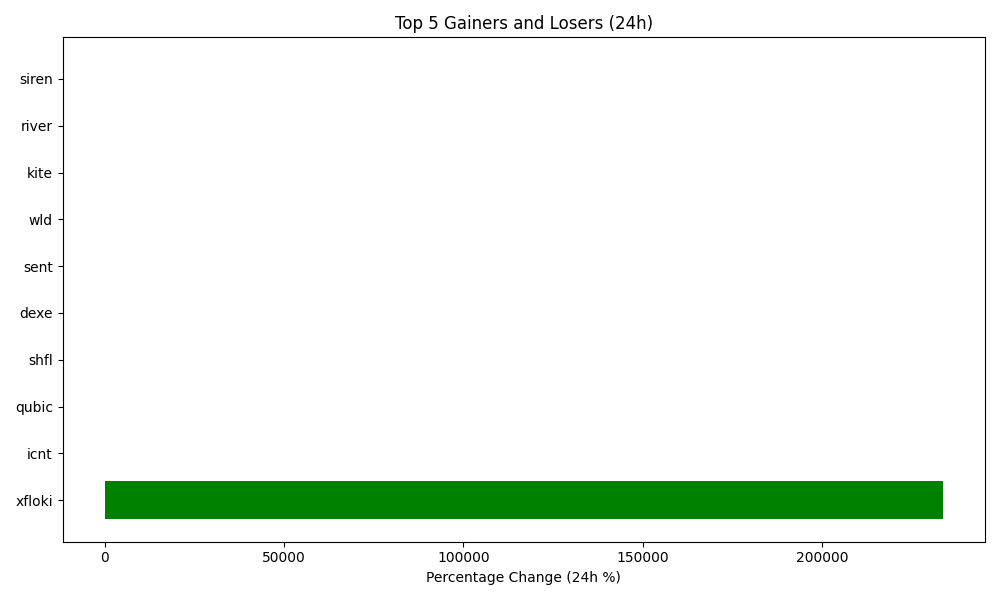
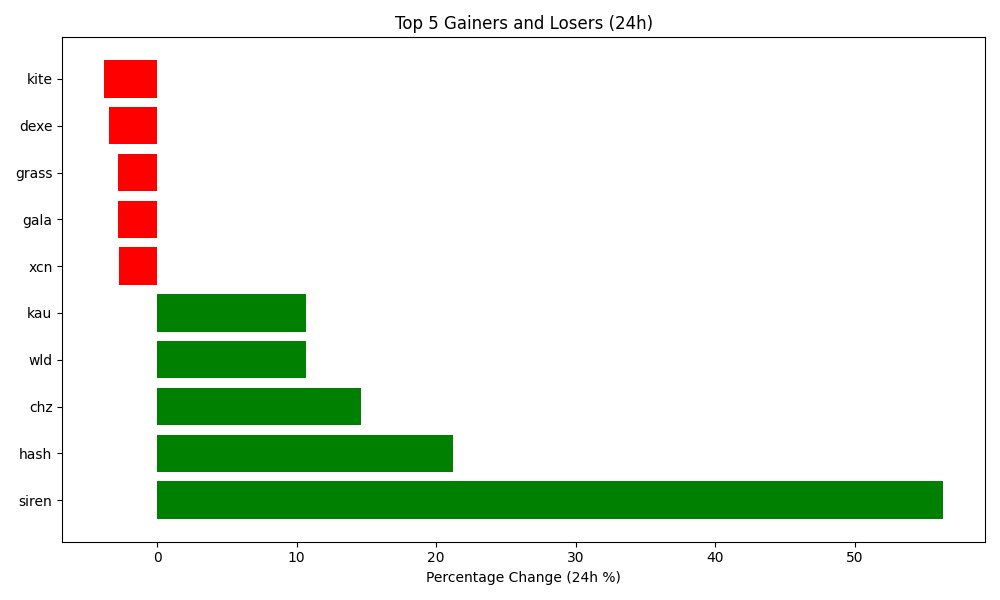
Auto-update crypto data and plot

diff --git a/README.md b/README.md
@@ -4,7 +4,7 @@ Author: Hitesh Agrawal
 This repository automatically tracks the top 5 gaining, top 5 losing, and top 5 highest volume cryptocurrencies in the last 24 hours using the CoinGecko API, Python, Matplotlib, and GitHub Actions updates the below content everyday at midnight.
 
 <!-- START_DYNAMIC_CONTENT -->
-Last updated: 2026-03-28 01:26 UTC
+Last updated: 2026-03-29 01:49 UTC
 
 ![Crypto Movers Plot](crypto_movers_plot.png)
 
@@ -12,33 +12,33 @@ Last updated: 2026-03-28 01:26 UTC
 
 | Rank | Coin | Price Change (24h %) | Volume (USD) | Current Price (USD) |
 | :--: | :--: | :------------------: | :----------: | :-----------------: |
-| 1 | xfloki | 233737.44% | $3,172,332 | $0.3024 |
-| 2 | icnt | 16.90% | $7,809,907 | $0.4477 |
-| 3 | qubic | 4.06% | $2,268,127 | $0.0000 |
-| 4 | shfl | 3.61% | $2,377,921 | $0.2789 |
-| 5 | dexe | 3.34% | $12,121,186 | $7.4200 |
+| 1 | siren | 56.32% | $148,153,943 | $1.5500 |
+| 2 | hash | 21.19% | $5,713 | $0.0138 |
+| 3 | chz | 14.64% | $149,326,009 | $0.0406 |
+| 4 | wld | 10.68% | $194,999,571 | $0.2716 |
+| 5 | kau | 10.68% | $6,842 | $157.6700 |
 
 
 **👇 Top 5 Losers (24h)**
 
 | Rank | Coin | Price Change (24h %) | Volume (USD) | Current Price (USD) |
 | :--: | :--: | :------------------: | :----------: | :-----------------: |
-| 1 | siren | -44.46% | $100,350,745 | $0.9464 |
-| 2 | river | -18.44% | $41,217,879 | $13.1800 |
-| 3 | kite | -15.71% | $65,010,190 | $0.1780 |
-| 4 | wld | -14.63% | $186,544,630 | $0.2478 |
-| 5 | sent | -14.38% | $18,924,676 | $0.0160 |
+| 1 | kite | -3.79% | $87,290,601 | $0.1725 |
+| 2 | dexe | -3.47% | $7,559,433 | $7.2000 |
+| 3 | grass | -2.82% | $5,827,533 | $0.2912 |
+| 4 | gala | -2.78% | $17,365,122 | $0.0028 |
+| 5 | xcn | -2.72% | $4,981,386 | $0.0050 |
 
 
 **💎 Top 5 by Trade Volume (24h)**
 
 | Rank | Coin | Price Change (24h %) | Volume (USD) | Current Price (USD) |
 | :--: | :--: | :------------------: | :----------: | :-----------------: |
-| 1 | usdt | -0.01% | $76,734,599,920 | $0.9993 |
-| 2 | btc | -3.85% | $49,260,410,838 | $66,224.0000 |
-| 3 | eth | -3.99% | $19,083,170,638 | $1,987.7700 |
-| 4 | usdc | 0.00% | $11,616,371,443 | $0.9998 |
-| 5 | sol | -4.75% | $3,476,560,385 | $82.5400 |
+| 1 | usdt | -0.01% | $38,876,427,218 | $0.9992 |
+| 2 | btc | 0.39% | $24,329,193,764 | $66,386.0000 |
+| 3 | eth | 0.54% | $9,089,762,829 | $1,999.4000 |
+| 4 | usdc | 0.01% | $4,031,299,627 | $0.9998 |
+| 5 | sol | -0.44% | $2,130,560,651 | $82.1900 |
 
 
 <!-- END_DYNAMIC_CONTENT -->
